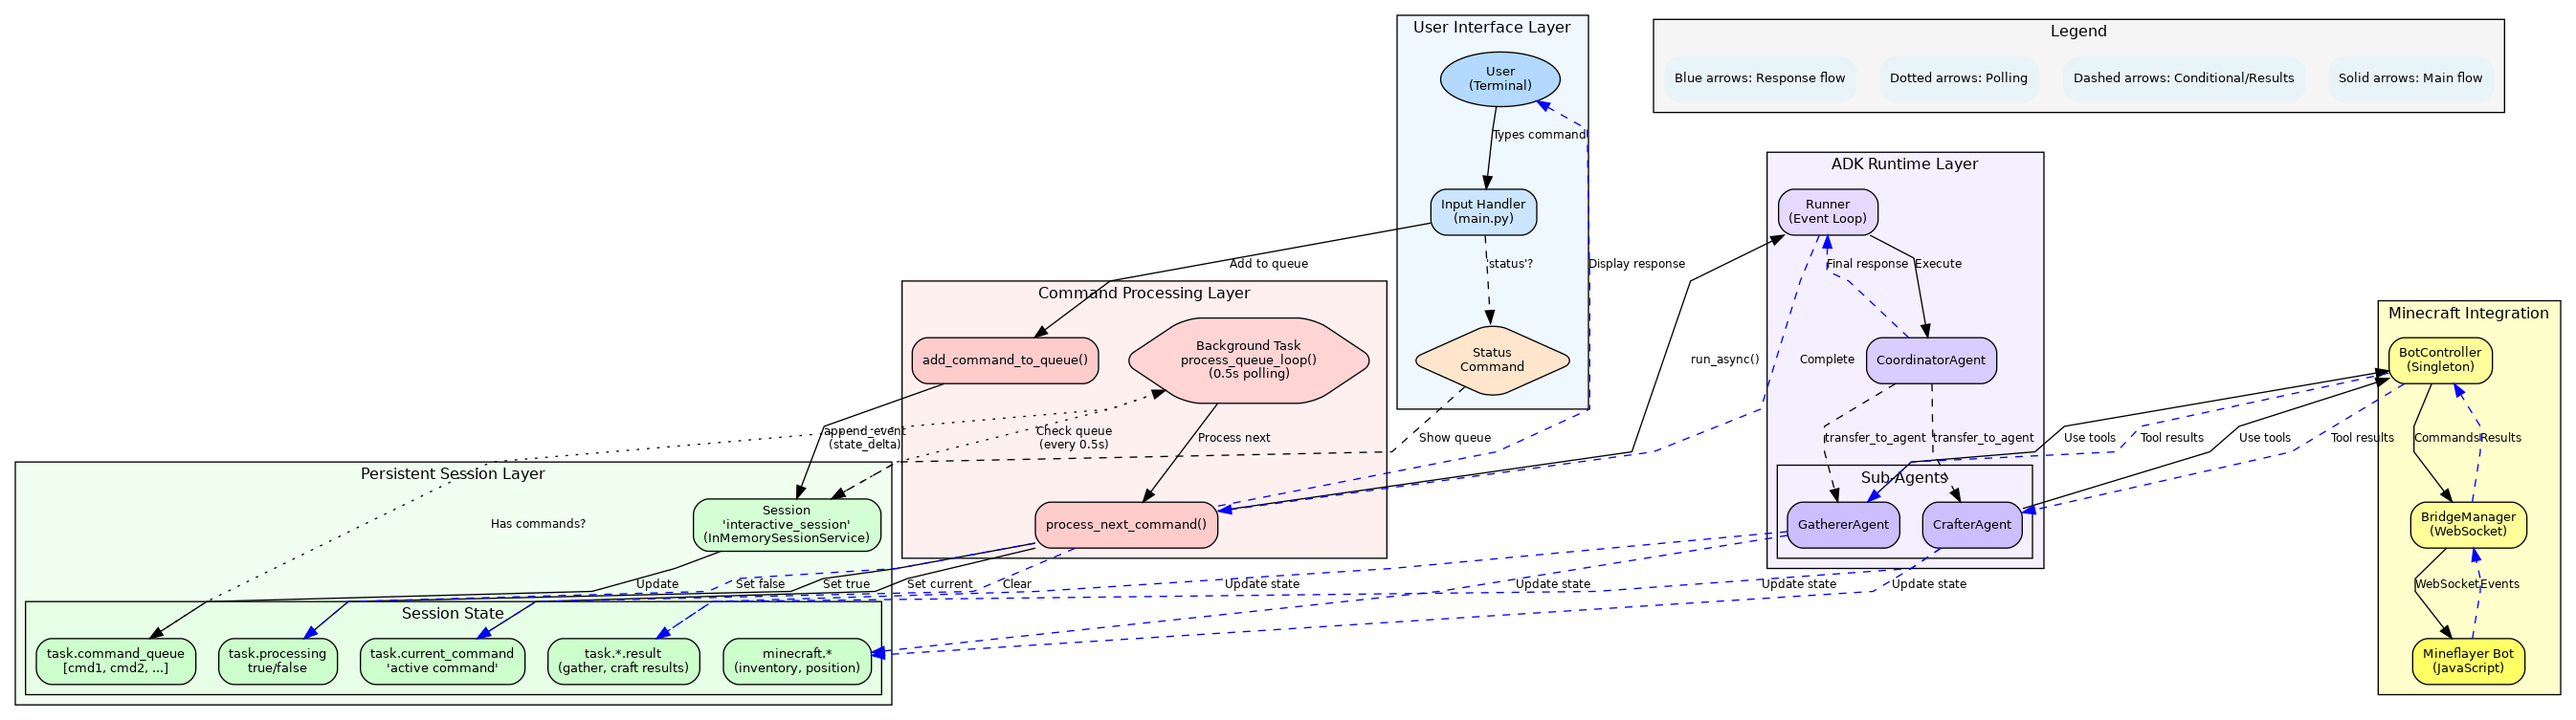
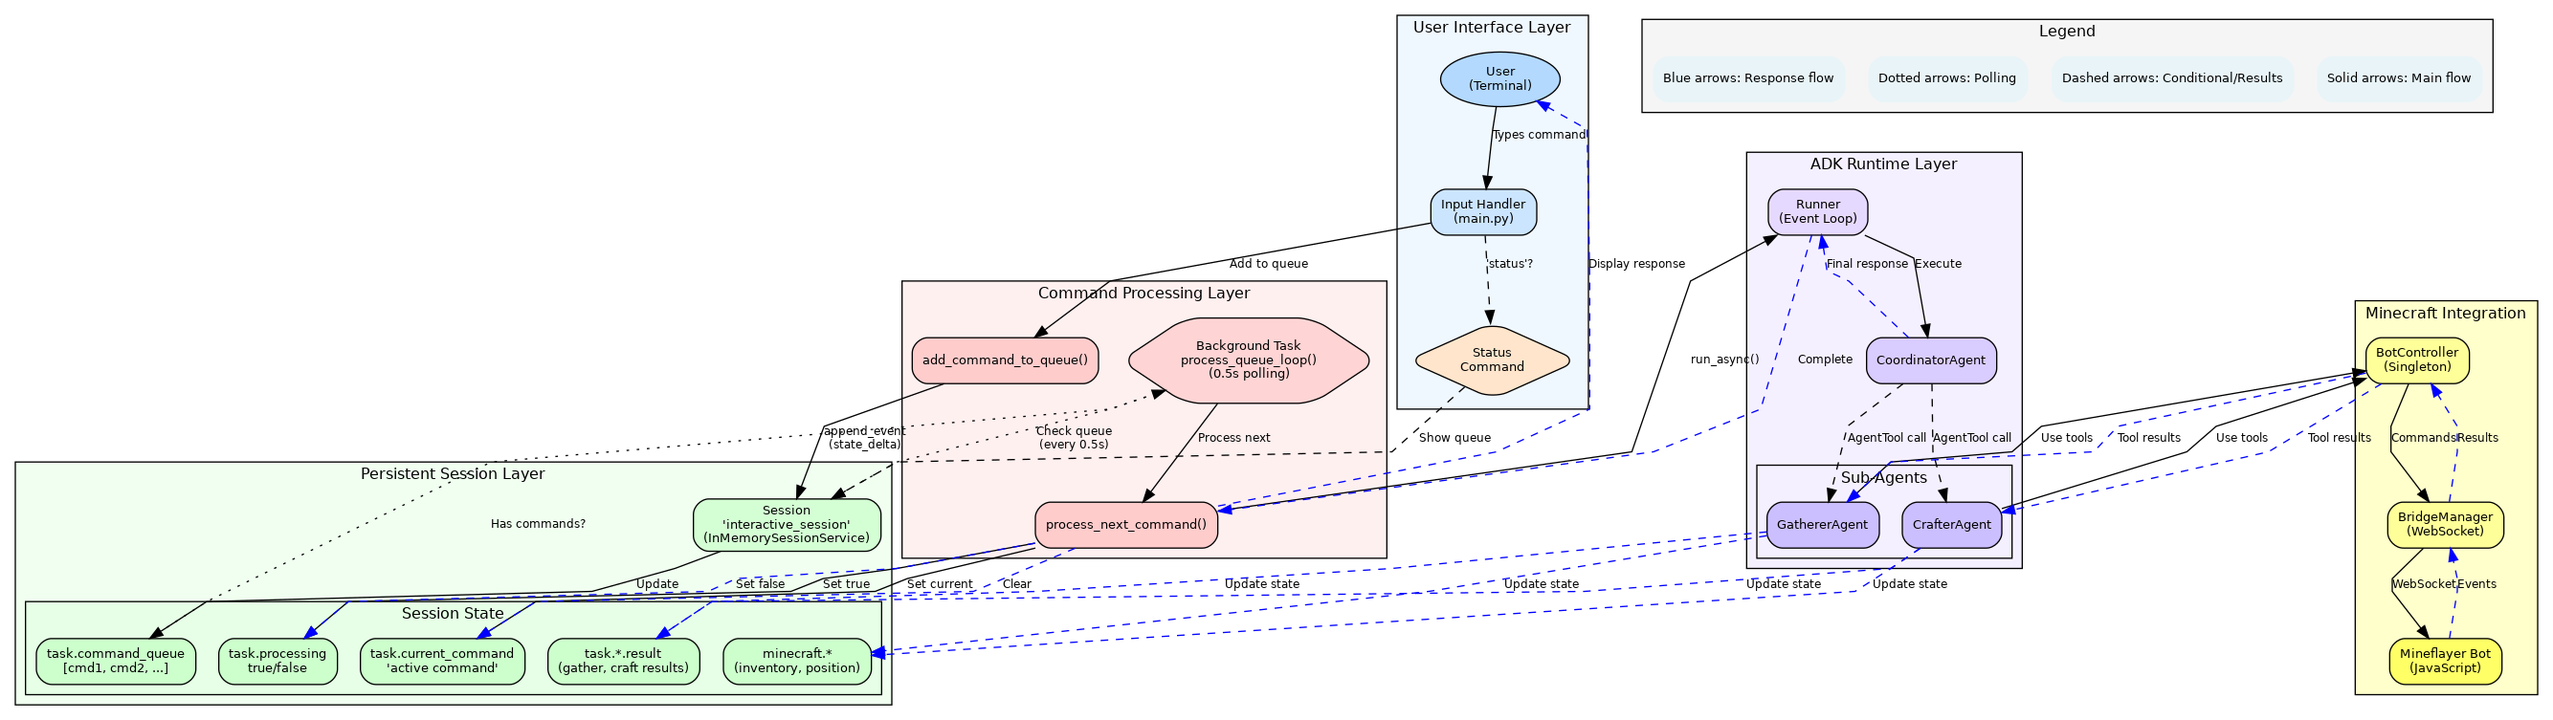
Execute architectural redesign validation recommendations
- Standardize state keys to use dot notation patterns
- Add missing state keys to schema (MINECRAFT_HAS_CRAFTING_TABLE, MOVEMENT_IN_PROGRESS)
- Fix all state key usage to use StateKeys constants instead of hardcoded strings
- Remove hardcoded food values from MinecraftDataService
- Use minecraft_data module as single source of truth for food data
- Handle special cases: 'steak' -> 'cooked_beef' alias and cake block mechanics
- Update test documentation to remove old transfer_to_agent references
- Update architecture diagrams to show AgentTool pattern

All recommendations from ai_plans/architectural_redesign_validation_report.md implemented.

diff --git a/src/minecraft_data_service.py b/src/minecraft_data_service.py
@@ -193,35 +193,21 @@ class MinecraftDataService:
             Food points value or 0 if not a food item
         """
         try:
+            # Handle special case: "steak" is called "cooked_beef" in minecraft
+            if item_name == "steak":
+                item_name = "cooked_beef"
+
             # Check if item is in foods_name
             food_data = self.mc_data.foods_name.get(item_name)
             if food_data:
                 return food_data.get("foodPoints", 0)
 
-            # Fallback to hardcoded values for common foods
-            food_values = {
-                "apple": 4,
-                "bread": 5,
-                "cooked_beef": 8,
-                "cooked_chicken": 6,
-                "cooked_porkchop": 8,
-                "golden_apple": 4,
-                "cookie": 2,
-                "cake": 14,
-                "cooked_mutton": 6,
-                "cooked_rabbit": 5,
-                "cooked_salmon": 6,
-                "cooked_cod": 5,
-                "baked_potato": 5,
-                "carrot": 3,
-                "potato": 1,
-                "melon_slice": 2,
-                "pumpkin_pie": 8,
-                "steak": 8,
-                "sweet_berries": 2,
-                "glow_berries": 2,
-            }
-            return food_values.get(item_name, 0)
+            # Special case: cake must be placed as a block to be eaten (7 slices × 2 points each)
+            if item_name == "cake":
+                logger.info("Cake must be placed as a block to be eaten (provides 14 total food points)")
+                return 14  # Total food points from all 7 slices
+
+            return 0
         except Exception as e:
             logger.error(f"Error getting food points for '{item_name}': {e}")
             return 0
@@ -236,35 +222,20 @@ class MinecraftDataService:
             Saturation value or 0.0 if not a food item
         """
         try:
+            # Handle special case: "steak" is called "cooked_beef" in minecraft
+            if item_name == "steak":
+                item_name = "cooked_beef"
+
             # Check if item is in foods_name
             food_data = self.mc_data.foods_name.get(item_name)
             if food_data:
                 return food_data.get("saturation", 0.0)
 
-            # Fallback to hardcoded values
-            saturation_values = {
-                "apple": 2.4,
-                "bread": 6.0,
-                "cooked_beef": 12.8,
-                "cooked_chicken": 7.2,
-                "cooked_porkchop": 12.8,
-                "golden_apple": 9.6,
-                "cookie": 0.4,
-                "cake": 0.4,
-                "cooked_mutton": 9.6,
-                "cooked_rabbit": 6.0,
-                "cooked_salmon": 9.6,
-                "cooked_cod": 6.0,
-                "baked_potato": 6.0,
-                "carrot": 3.6,
-                "potato": 0.6,
-                "melon_slice": 1.2,
-                "pumpkin_pie": 4.8,
-                "steak": 12.8,
-                "sweet_berries": 0.4,
-                "glow_berries": 0.4,
-            }
-            return saturation_values.get(item_name, 0.0)
+            # Special case: cake must be placed as a block to be eaten
+            if item_name == "cake":
+                return 0.4  # Saturation per slice (2.8 total for all slices)
+
+            return 0.0
         except Exception as e:
             logger.error(f"Error getting saturation for '{item_name}': {e}")
             return 0.0

diff --git a/src/tools/mineflayer_tools.py b/src/tools/mineflayer_tools.py
@@ -5,6 +5,7 @@ from typing import Any, Dict, List, Optional
 
 from google.adk.tools import ToolContext
 
+from ..agents.state_schema import StateKeys
 from ..logging_config import get_logger
 from ..minecraft_bot_controller import BotController
 from ..minecraft_data_service import MinecraftDataService
@@ -70,7 +71,7 @@ async def move_to(
 
         # Store movement start in state
         if tool_context and hasattr(tool_context, "state"):
-            tool_context.state["temp:movement_in_progress"] = {
+            tool_context.state[StateKeys.MOVEMENT_IN_PROGRESS] = {
                 "target": {"x": x, "y": y, "z": z},
                 "start_position": current_pos,
                 "start_time": __import__("time").time(),
@@ -88,13 +89,13 @@ async def move_to(
 
             # Update position in state
             if tool_context and hasattr(tool_context, "state"):
-                tool_context.state["minecraft_position"] = {
+                tool_context.state[StateKeys.MINECRAFT_POSITION] = {
                     "x": actual_pos["x"],
                     "y": actual_pos["y"],
                     "z": actual_pos["z"],
                     "timestamp": __import__("time").time(),
                 }
-                tool_context.state["temp:movement_in_progress"] = None
+                tool_context.state[StateKeys.MOVEMENT_IN_PROGRESS] = None
 
             return {
                 "status": "success",
@@ -356,7 +357,7 @@ async def get_movement_status(tool_context: Optional[ToolContext] = None) -> Dic
 
         # Check session state for movement tracking
         if tool_context and hasattr(tool_context, "state"):
-            movement_progress = tool_context.state.get("temp:movement_in_progress")
+            movement_progress = tool_context.state.get(StateKeys.MOVEMENT_IN_PROGRESS)
             if movement_progress:
                 # Calculate if we're still moving based on session state
                 current_time = __import__("time").time()
@@ -671,7 +672,7 @@ async def get_inventory(tool_context: Optional[ToolContext] = None) -> Dict[str,
 
         # Save structured inventory data to session state if tool_context is provided
         if tool_context and hasattr(tool_context, "state"):
-            tool_context.state["minecraft_inventory"] = {
+            tool_context.state[StateKeys.MINECRAFT_INVENTORY] = {
                 "items": enriched_items,
                 "summary": inventory_summary,
                 "statistics": result["statistics"],
@@ -688,7 +689,10 @@ async def get_inventory(tool_context: Optional[ToolContext] = None) -> Dict[str,
 
         # Save error state if tool_context is provided
         if tool_context and hasattr(tool_context, "state"):
-            tool_context.state["minecraft_inventory"] = {"error": str(e), "timestamp": __import__("time").time()}
+            tool_context.state[StateKeys.MINECRAFT_INVENTORY] = {
+                "error": str(e),
+                "timestamp": __import__("time").time(),
+            }
 
         return error_result
 

diff --git a/tests/test_craft_stick_current_behavior.py b/tests/test_craft_stick_current_behavior.py
@@ -40,7 +40,7 @@ async def test_current_craft_stick_behavior():
     for line in output_lines:
         if "AGENT STARTING: CoordinatorAgent" in line:
             events["coordinator_starts"] = True
-        elif "transfer_to_agent" in line and "CrafterAgent" in line:
+        elif ("CrafterAgent" in line and "Tool:" in line) or "AGENT STARTING: CrafterAgent" in line:
             events["transfers_to_crafter"] = True
         elif "AGENT STARTING: CrafterAgent" in line:
             events["crafter_starts"] = True
@@ -68,7 +68,7 @@ async def test_current_craft_stick_behavior():
     # Current behavior observations
     logger.info("\n=== OBSERVATIONS ===")
     logger.info("Current behavior:")
-    logger.info("- Coordinator correctly delegates to CrafterAgent")
+    logger.info("- Coordinator correctly uses CrafterAgent tool")
     logger.info("- CrafterAgent checks inventory and attempts to craft")
     logger.info("- CrafterAgent reports missing materials")
     logger.info("- Coordinator does NOT continue after receiving missing materials report")
@@ -76,11 +76,11 @@ async def test_current_craft_stick_behavior():
 
     logger.info("\n=== DESIRED BEHAVIOR ===")
     logger.info("What should happen:")
-    logger.info("1. Coordinator transfers to CrafterAgent")
+    logger.info("1. Coordinator uses CrafterAgent tool")
     logger.info("2. CrafterAgent reports missing materials (e.g., planks)")
-    logger.info("3. Coordinator recognizes this and transfers to GathererAgent")
+    logger.info("3. Coordinator recognizes this and uses GathererAgent tool")
     logger.info("4. GathererAgent gathers logs")
-    logger.info("5. Coordinator transfers back to CrafterAgent")
+    logger.info("5. Coordinator uses CrafterAgent tool again")
     logger.info("6. CrafterAgent crafts planks from logs")
     logger.info("7. CrafterAgent crafts sticks from planks")
     logger.info("8. Coordinator reports success to user")
@@ -100,7 +100,7 @@ if __name__ == "__main__":
 
     # Assert current behavior
     assert events["coordinator_starts"], "Coordinator should start"
-    assert events["transfers_to_crafter"], "Should transfer to CrafterAgent"
+    assert events["transfers_to_crafter"], "Should use CrafterAgent tool"
     assert events["crafter_checks_inventory"], "Crafter should check inventory"
     assert events["crafter_attempts_craft"], "Crafter should attempt to craft"
     assert events["crafter_reports_missing"], "Crafter should report missing materials"

diff --git a/tests/test_craft_stick_demonstration.py b/tests/test_craft_stick_demonstration.py
@@ -22,7 +22,7 @@ def demonstrate_desired_flow():
 
     # Step 2: Coordinator starts
     logger.info("COORDINATOR: I'll craft that stick for you.")
-    logger.info("COORDINATOR: [Transfers to CrafterAgent]")
+    logger.info("COORDINATOR: [Uses CrafterAgent tool]")
     logger.info("")
 
     # Step 3: CrafterAgent checks and attempts
@@ -35,7 +35,7 @@ def demonstrate_desired_flow():
     # Step 4: Coordinator recognizes missing materials
     logger.info("COORDINATOR: [Reads task.craft.result - sees missing planks]")
     logger.info("COORDINATOR: Need to gather materials first.")
-    logger.info("COORDINATOR: [Transfers to GathererAgent with 'gather logs']")
+    logger.info("COORDINATOR: [Uses GathererAgent tool with 'gather logs']")
     logger.info("")
 
     # Step 5: GathererAgent gathers
@@ -48,7 +48,7 @@ def demonstrate_desired_flow():
     # Step 6: Coordinator continues crafting
     logger.info("COORDINATOR: [Reads task.gather.result - sees logs gathered]")
     logger.info("COORDINATOR: Got logs, now crafting planks.")
-    logger.info("COORDINATOR: [Transfers to CrafterAgent with 'craft planks from logs']")
+    logger.info("COORDINATOR: [Uses CrafterAgent tool with 'craft planks from logs']")
     logger.info("")
 
     # Step 7: CrafterAgent crafts planks
@@ -61,7 +61,7 @@ def demonstrate_desired_flow():
     # Step 8: Coordinator continues with sticks
     logger.info("COORDINATOR: [Reads task.craft.result - sees planks crafted]")
     logger.info("COORDINATOR: Now crafting the sticks.")
-    logger.info("COORDINATOR: [Transfers to CrafterAgent with 'craft sticks']")
+    logger.info("COORDINATOR: [Uses CrafterAgent tool with 'craft sticks']")
     logger.info("")
 
     # Step 9: CrafterAgent crafts sticks
@@ -78,9 +78,9 @@ def demonstrate_desired_flow():
 
     logger.info("=== KEY POINTS ===")
     logger.info("1. Coordinator maintains control throughout the process")
-    logger.info("2. Sub-agents update state with their results")
+    logger.info("2. Agent tools update state with their results")
     logger.info("3. Coordinator reads state and makes decisions")
-    logger.info("4. Multiple transfers happen to complete the task")
+    logger.info("4. Multiple tool calls happen to complete the task")
     logger.info("5. User gets clear progress updates")
 
 

diff --git a/tests/test_coordinator_craft_flow.py b/tests/test_coordinator_craft_flow.py
@@ -25,16 +25,16 @@ class TestCoordinatorCraftFlow:
 
     @pytest.fixture
     def mock_coordinator(self, mock_session):
-        """Create a mock coordinator agent with sub-agents"""
+        """Create a mock coordinator agent with AgentTools"""
         from src.agents.coordinator_agent.agent import CoordinatorAgent
 
-        # Mock sub-agents
+        # Mock agent tools
         mock_crafter = MagicMock(name="CrafterAgent")
         mock_gatherer = MagicMock(name="GathererAgent")
 
         coordinator = CoordinatorAgent(
             name="TestCoordinator",
-            sub_agents=[mock_gatherer, mock_crafter],
+            tools=[mock_gatherer, mock_crafter],
             session_service=MagicMock(),
         )
 
@@ -53,10 +53,10 @@ class TestCoordinatorCraftFlow:
         # user_message = "craft 1 stick"  # Not used in this test
 
         # Expected behavior:
-        # 1. Coordinator should transfer to CrafterAgent
+        # 1. Coordinator should use CrafterAgent tool
         # 2. CrafterAgent reports missing planks
         # 3. Coordinator should create a plan to gather logs first
-        # 4. Coordinator should transfer to GathererAgent
+        # 4. Coordinator should use GathererAgent tool
 
         # Mock the coordinator's planning logic
         with patch.object(coordinator, "_create_material_gathering_plan") as mock_plan:

diff --git a/src/agents/state_schema.py b/src/agents/state_schema.py
@@ -19,6 +19,7 @@ class StateKeys:
     MINECRAFT_NEARBY_BLOCKS: Final[str] = "minecraft.nearby_blocks"
     MINECRAFT_HEALTH: Final[str] = "minecraft.health"
     MINECRAFT_FOOD: Final[str] = "minecraft.food"
+    MINECRAFT_HAS_CRAFTING_TABLE: Final[str] = "minecraft.has_crafting_table"
 
     # Task management keys
     CURRENT_TASK: Final[str] = "current_task"
@@ -38,7 +39,7 @@ class StateKeys:
     CRAFT_PREREQUISITES: Final[str] = "task.craft.prerequisites"
 
     # Agent communication keys
-    AGENT_TRANSFER_REASON: Final[str] = "agent.transfer_reason"
+    AGENT_TOOL_REASON: Final[str] = "agent.tool_reason"
     AGENT_LAST_ACTION: Final[str] = "agent.last_action"
     AGENT_ERROR: Final[str] = "agent.error"
 
@@ -46,6 +47,9 @@ class StateKeys:
     COMMANDS_EXECUTED: Final[str] = "performance.commands_executed"
     SUCCESSFUL_ACTIONS: Final[str] = "performance.successful_actions"
     FAILED_ACTIONS: Final[str] = "performance.failed_actions"
+
+    # Temporary state keys (for in-progress operations)
+    MOVEMENT_IN_PROGRESS: Final[str] = "temp.movement_in_progress"
 
 
 # State value constants

diff --git a/src/tools/agent_tools.py b/src/tools/agent_tools.py
@@ -236,7 +236,7 @@ def create_crafter_tools(bot_controller: BotController, mc_data_service: Minecra
 
                 # Check if we have crafting table access
                 has_crafting_table = any(item.get("name") == "crafting_table" for item in inventory)
-                tool_context.state["has_crafting_table"] = has_crafting_table
+                tool_context.state[StateKeys.MINECRAFT_HAS_CRAFTING_TABLE] = has_crafting_table
 
                 logger.info(f"Inventory check for crafting: {len(materials)} material types")
 

diff --git a/docs/transfer_to_agent_updates.md b/docs/transfer_to_agent_updates.md
@@ -1,0 +1,50 @@
+# Transfer to Agent Pattern Updates
+
+## Summary
+
+Updated all references from the old "transfer_to_agent" pattern to the new AgentTool pattern throughout the codebase. The CoordinatorAgent now uses GathererAgent and CrafterAgent as AgentTools rather than sub-agents with direct transfer mechanisms.
+
+## Files Updated
+
+### 1. CLAUDE.md
+- Updated "Multi-Agent Hierarchy" section to reflect AgentTool usage
+- Updated "ADK Components We DON'T Use" to clarify we don't use transfer_to_agent pattern
+- Changed from: "LLM-driven delegation via transfer_to_agent for dynamic task routing"
+- Changed to: "LLM-driven tool selection for dynamic task routing"
+
+### 2. tests/test_craft_stick_current_behavior.py
+- Updated event detection logic to look for AgentTool usage patterns
+- Updated assertions and observations to reference "uses CrafterAgent tool" instead of "transfers to CrafterAgent"
+- Updated desired behavior description to use AgentTool terminology
+
+### 3. tests/test_coordinator_craft_flow.py
+- Updated mock coordinator fixture to use tools instead of sub_agents
+- Updated comments to reflect AgentTool pattern throughout the test cases
+- Changed expectations from "transfer to agent" to "use agent tool"
+
+### 4. tests/test_craft_stick_demonstration.py
+- Updated demonstration flow to show "Uses CrafterAgent tool" instead of "Transfers to CrafterAgent"
+- Updated all coordinator action descriptions to use AgentTool terminology
+- Updated key points to reference "tool calls" instead of "transfers"
+
+### 5. src/agents/state_schema.py
+- Renamed state key from AGENT_TRANSFER_REASON to AGENT_TOOL_REASON
+- This better reflects the new AgentTool pattern where agents are invoked as tools
+
+### 6. docs/interactive-agent-loop-architecture.dot
+- Updated diagram labels from "transfer_to_agent" to "AgentTool call"
+- Regenerated PNG diagram with updated terminology
+
+## Impact
+
+These changes ensure consistency throughout the codebase with the new AgentTool pattern. All documentation, tests, and diagrams now accurately reflect the current architecture where:
+
+1. CoordinatorAgent uses GathererAgent and CrafterAgent as tools
+2. There is no direct "transfer" between agents
+3. Agent communication happens through tool invocations and shared state
+4. The LLM decides which tool to use based on context and goals
+
+## No Changes Required
+
+The following file was checked but didn't require updates:
+- docs/interactive-agent-loop-flow.dot - Already uses generic "delegates" terminology
